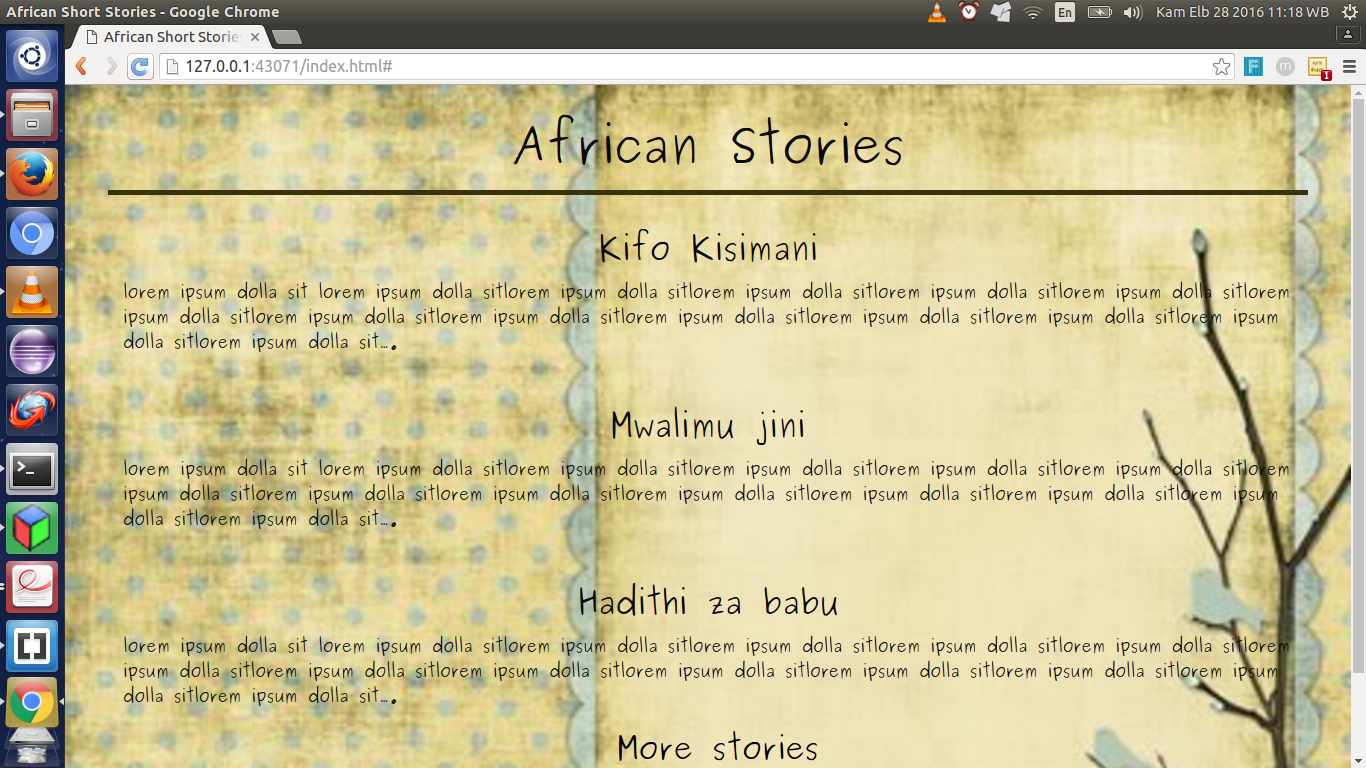
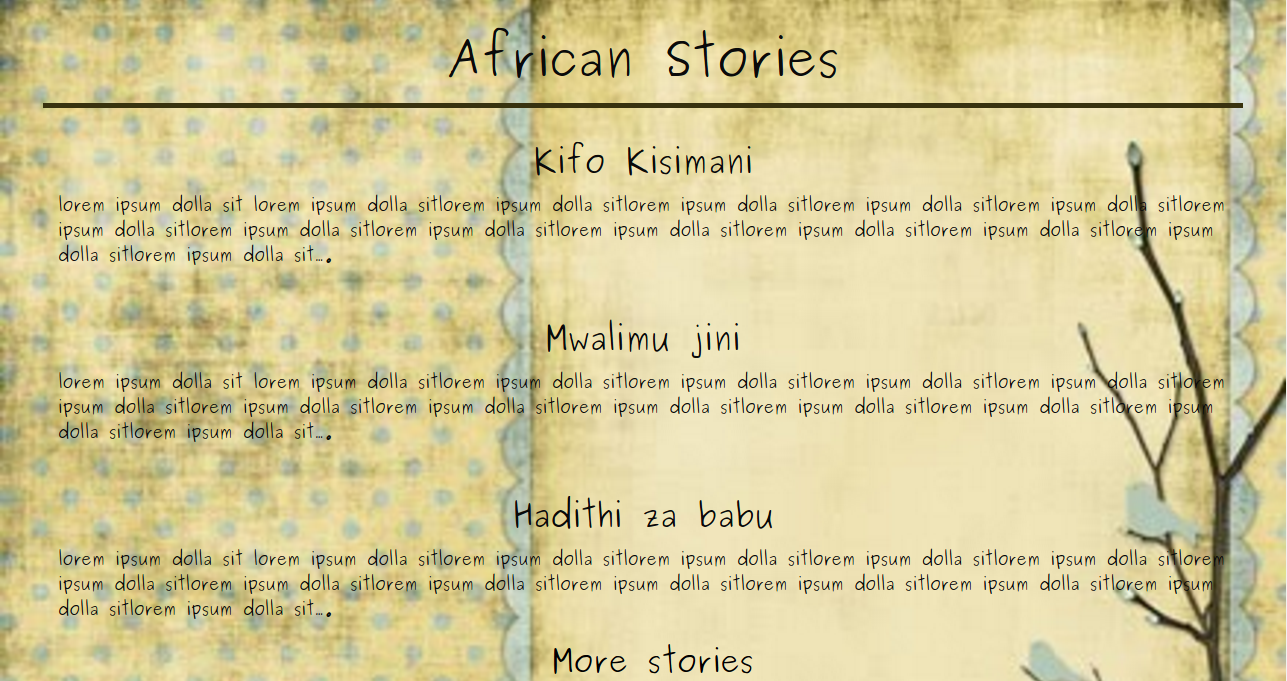
blog inserted

diff --git a/index.html b/index.html
@@ -15,9 +15,10 @@
 </head>
 
 <body>
+    <!--navigation-->
     <div class="row">
-        <div class="small-12 ">
-            <div class="nav">
+        <div class="small-12 "id="nav">
+
                 <ul>
                     <li><a href="#About-me">ABOUT ME</a></li>
                     <li><a href="#skills"> SKILLS</a></li>
@@ -26,11 +27,11 @@
                     <li><a href="#blog">BLOG</a></li>
                 </ul>
 
-            </div>
         </div>
-        <div class="row">
 
-        </div>
+
+
+
         <div class="small-collumn-12 " id="main">
 
 
@@ -43,12 +44,11 @@
     </div>
 
     <div class="row">
+        <div class="small-12" id= "heading">
+            <h2>SKILLS</h2></div>
         <div class="small-12"  id="skills">
-          <h1>  SKILLS</h1>
-            <div id="box">
 
-  <div id="overlay">
-    <span id="plus">
+
 
            <h2>HTML</h2>
         <h3>CSS</h3>
@@ -61,12 +61,20 @@
   </div>
 
 </div>
-            <a href="#About-me"><i class="fa fa-angle-double-down fa-3x" aria-hidden="true"></i></a>
-        </div>
-        <div class="small-12" id="portfolio">
-            <h1>Portfolio</h1>
+            </div>
+ <div class="small-12" id= "heading">
+            <h2>Portfolio</h2></div>
+        <div class="small-12" id="portfolio" >
 
-    <img src="images/project.png"><img src="images/project1.png">
+<div class="reveal" id="exampleModal1" data-reveal>
+ <img src="images/project.png">
+  <button class="close-button" data-close aria-label="Close modal" type="button">
+    <span aria-hidden="true">&times;</span>
+  </button>
+</div>
+            <a data-open="exampleModal1"><img src="images/project.png"> </a>
+
+            <img src="images/project1.png">
             <img src="images/project2.png">
             <img src="images/project3.png">
     <img src="images/project4.png">
@@ -80,9 +88,9 @@
 
     </div>
 
-    <div class="row">
+    <div class="row"><h2>About me</h2>
         <div class="small-12"  id="About-me">
-            <h1>About me</h1>
+
             <div id="box">
 
   <div id="overlay">
@@ -103,13 +111,13 @@
 
     </div>
 
-    <div class="row">
+    <div class="row"><h2>Blog</h2>
         <div class="small-12" id="blog">
-            <h1>Blog</h1>
-            <p>lorem ipsum dolla sitlorem ipsum dolla sitlorem ipsum dolla sitlorem ipsum dolla sitlorem ipsum dolla sitlorem ipsum dolla sitlorem ipsum dolla sitlorem ipsum dolla sitlorem ipsum dolla sitlorem ipsum dolla sitlorem ipsum dolla sitlorem ipsum dolla sitlorem ipsum dolla sitlorem ipsum dolla sitlorem ipsum dolla sitlorem ipsum dolla sitlorem ipsum dolla sitlorem ipsum dolla sitlorem ipsum dolla sit</p>
+
+            <a href="http://bakslash.github.io/blog/"><img src="images/pp.jpeg"></a>
         </div></div>
           <div class="row">
-        <div class="small-12"  id="Contact" >
+        <div class="small-12" id="heading"   >
             <h1>Contact</h1>
 
 
@@ -118,8 +126,8 @@
     </div>
     <form>
 
-  <div class="row">
-    <div class="large-6 columns">
+  <div class="row" id="Contact">
+    <div class="large-6 columns" >
       <label>First name
         <input type="text" placeholder="First name" />
       </label>
@@ -134,9 +142,10 @@
         <textarea placeholder="comment here"></textarea>
       </label>
     </div>
+      <input class=" secondary button" id="submit" type="submit" value="Submit" />
   </div>
 </form>
-<input class="button" id="submit" type="submit" value="Submit" />
+
 
 
 

diff --git a/css/app.css b/css/app.css
@@ -2,17 +2,18 @@
 
 
 body{
-   background-image: url(../images/back.jpg);
-    background-repeat: no-repeat;
-    background-size: cover;
-  background-attachment: fixed;
+
+    font-family: 'Raleway', sans-serif;
+
 }
 #main {
+    background-image: url(../images/back.jpg);
     text-align: center;
-    margin-top: 20%;
+   background-size: contain;
+    height: 600px;
        font-family: 'Raleway', sans-serif;
-    color: #5D523C
-    padding-bottom: 20%;
+
+
 }
 /*img{
     border-radius: 50%;
@@ -22,11 +23,11 @@ body{
 
 a{
     text-decoration: none;
-    color: aliceblue;
+
      font font-family: 'Raleway', sans-serif;
 
 }
-.nav ul li{
+#nav ul li{
 
     list-style: none;
     float: left;
@@ -42,33 +43,45 @@ a{
 
 }
 #blog{
+    padding-top: 2%;
+text-align: center;
 
-    text-align: center;
-    color: whitesmoke;
-    padding-bottom: 5%;
 }
 #About-me{
-    color: whitesmoke;
+    color: cornsilk;
     text-align: center;
     padding-bottom: 2%;
     padding-left: 0;
     padding-left: 0;
     margin-top: 6%;
+    height: 300px;
+    width: 100%;
+    background-image: url(../images/back1.jpg);
+     background-attachment: fixed;
+    background-size: cover;
 
 }
+h3{
+  font font-family: 'Raleway', sans-serif;
+    color: black;
+}
 
+#nav {
 
-.nav {
+     font font-family: 'Raleway', sans-serif;
     margin: 0;
     padding: 0;
 }
 
 #skills {
-    margin-top: 20%;
+    background-image: url(../images/back1.jpg);
+background-size: cover;
+    background-attachment: fixed;
+    width: 100%;
     text-align: center;
-    margin-bottom: 5%;
+    padding-top: 5%;
     color: whitesmoke;
-
+height: 300px;
 
 }
 
@@ -76,13 +89,20 @@ a{
     font-size: 20px;
     list-style: none;
     font font-family: 'Raleway', sans-serif;
-    padding: 2%:
+
 
 }
 
-h1 h2 h3{
+h1 {
+    text-align: center;
+    padding-top: 20%;
     font-family: 'Raleway', sans-serif;
-    color: #301914
+    color: black;
+}
+h2{
+    font-family: 'Raleway', sans-serif;
+    text-align: center;
+
 }
 #About-me ul li{
     font-size: 20px;
@@ -91,8 +111,16 @@ h1 h2 h3{
 
 }
 #Contact{
-
+ background-attachment: fixed;
+background-image: url(../images/contact.jpg);
     text-align: center;
+    height: 300px;
+    background-repeat: no-repeat;
+    background-size: cover;
+}
+#heading{
+    text-align: center;
+    font-family: 'Raleway', sans-serif;
 }
 #portfolio img{
     border-radius: 0;
@@ -107,11 +135,12 @@ h1 h2 h3{
 }
 
         .button.small{
+            color: burlywood;
             margin-left: 5%;
     }
 
 
-
+/*
 #box    {  width:100%;
            height:20%;
            box-shadow:inset 1px 1px 40px 0 rgba(0,0,0,.45);
